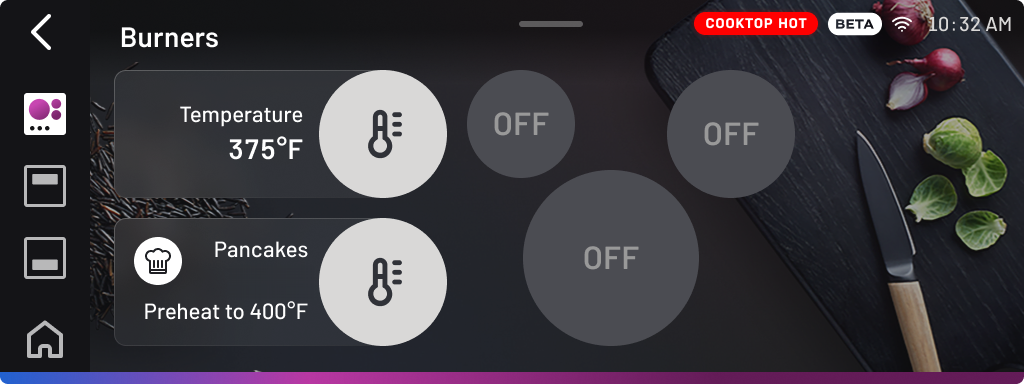
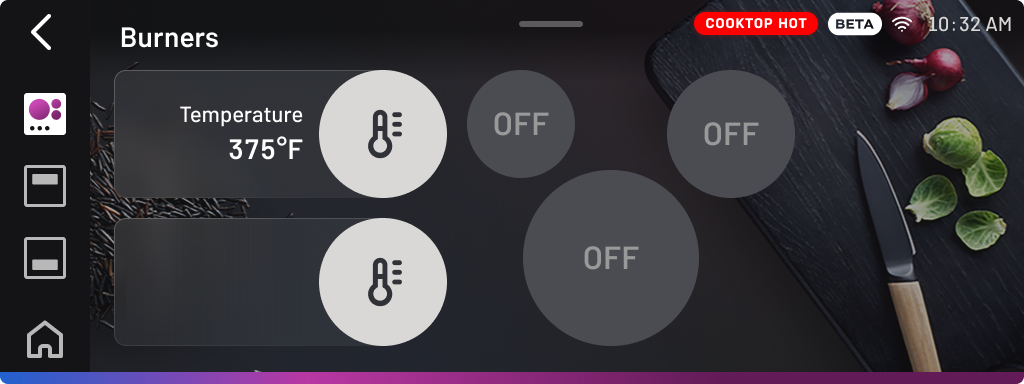
Update Pancakes tile on preheat completion to match Figma 3299:24163

Changed region(s): [[0.125, 0.625, 0.3125, 0.75], [0.125, 0.7812, 0.3125, 0.8438]]

diff --git a/styles.css b/styles.css
@@ -6406,21 +6406,110 @@ input,
   overflow: hidden;
 }
 
-.t3-pancakes-preheat-temp {
+/* Pancakes Burner Tile (Front Left) - Figma 3299:24045 & 3299:24163 */
+.t3-pancakes-burner-tile {
   position: absolute;
-  left: 44px;
-  top: 265px;
+  left: 24px;
+  top: 218px;
+  width: 271px;
+  height: 128px;
+  pointer-events: none;
+  z-index: 10;
+}
+
+.t3-pancakes-chef-btn {
+  position: absolute;
+  left: 20px;
+  top: 19px;
+  width: 48px;
+  height: 48px;
+  border-radius: 50%;
+  transition: top 0.4s cubic-bezier(0.2, 0.8, 0.2, 1);
+}
+
+.t3-pancakes-chef-img {
+  width: 100%;
+  height: 100%;
+  display: block;
+  border-radius: 50%;
+}
+
+.t3-pancakes-tile-texts {
+  position: absolute;
+  left: 20px;
+  top: 0;
   width: 174px;
+  height: 128px;
+}
+
+.t3-pancakes-tile-title {
+  position: absolute;
+  left: 0;
+  right: 0;
+  top: 19px;
+  height: 28px;
+  font-family: "Profile Text", -apple-system, BlinkMacSystemFont, "Segoe UI", Roboto, sans-serif;
+  font-size: 22px;
+  font-weight: 500;
+  line-height: 28px;
+  letter-spacing: 0.44px;
+  color: #ffffff;
+  text-align: right;
+  transition: top 0.4s cubic-bezier(0.2, 0.8, 0.2, 1);
+}
+
+.t3-pancakes-tile-temp {
+  position: absolute;
+  left: 0;
+  right: 0;
+  top: 47px;
   height: 34px;
   font-family: "Profile Text", -apple-system, BlinkMacSystemFont, "Segoe UI", Roboto, sans-serif;
   font-size: 28px;
   font-weight: 600;
-  color: #ffffff;
-  text-align: right;
   line-height: 34px;
   letter-spacing: 0.56px;
-  pointer-events: none;
-  z-index: 10;
+  color: #ffffff;
+  text-align: right;
+  transition: top 0.4s cubic-bezier(0.2, 0.8, 0.2, 1);
+}
+
+.t3-pancakes-tile-sub {
+  position: absolute;
+  left: 0;
+  right: 0;
+  top: 81px;
+  height: 28px;
+  font-family: "Profile Text", -apple-system, BlinkMacSystemFont, "Segoe UI", Roboto, sans-serif;
+  font-size: 22px;
+  font-weight: 500;
+  line-height: 28px;
+  letter-spacing: 0.44px;
+  color: #ffffff;
+  text-align: right;
+  opacity: 1;
+  visibility: visible;
+  transition: opacity 0.3s ease, visibility 0.3s ease;
+}
+
+/* TARGET TEMPERATURE REACHED (Figma 3299:24163):
+   Chef button aligns to vertical center line (top: 40px),
+   subtitle disappears, and title/temp re-center vertically */
+.t3-pancakes-burner-tile.is-reached .t3-pancakes-chef-btn {
+  top: 40px;
+}
+
+.t3-pancakes-burner-tile.is-reached .t3-pancakes-tile-title {
+  top: 33px;
+}
+
+.t3-pancakes-burner-tile.is-reached .t3-pancakes-tile-temp {
+  top: 61px;
+}
+
+.t3-pancakes-burner-tile.is-reached .t3-pancakes-tile-sub {
+  opacity: 0;
+  visibility: hidden;
 }
 
 .t3-pancakes-edit-hotspot {

diff --git a/index.html b/index.html
@@ -1820,13 +1820,26 @@
               </div>
             </div>
 
-            <!-- SCREEN: 3C-PANCAKES-PREHEAT (PANCAKES 400°F PREHEATING RAMP UP - FIGMA 3299:24045) -->
+            <!-- SCREEN: 3C-PANCAKES-PREHEAT (PANCAKES 400°F PREHEATING RAMP UP & TARGET REACHED - FIGMA 3299:24045 & 3299:24163) -->
             <div class="t3-screen" id="t3ScreenPancakesPreheat" hidden>
               <img class="t3-screen-bg" src="./assets/task3c/pancakes/3299_24045_clean.png" alt="Pancakes Preheating">
               <!-- Back button (< Burners) -->
               <button type="button" class="t3-back-btn" id="t3BtnBackFromPancakesPreheat" aria-label="Back to Pancakes"></button>
-              <!-- Dynamic Current Temperature (counts up from 178°F to 400°F) -->
-              <div class="t3-pancakes-preheat-temp" id="t3PancakesPreheatTemp">178°F</div>
+              
+              <!-- Pancakes Burner Tile (Front Left) -->
+              <div class="t3-pancakes-burner-tile" id="t3PancakesBurnerTile">
+                <!-- Chef Icon Button (48x48) -->
+                <div class="t3-pancakes-chef-btn" id="t3PancakesChefBtn">
+                  <img src="./assets/task3c/pancakes/chef_button_48.png" alt="Chef Icon" class="t3-pancakes-chef-img">
+                </div>
+                <!-- Tile Texts (Pancakes, Temp, Preheat Subtitle) -->
+                <div class="t3-pancakes-tile-texts" id="t3PancakesTileTexts">
+                  <div class="t3-pancakes-tile-title">Pancakes</div>
+                  <div class="t3-pancakes-tile-temp" id="t3PancakesPreheatTemp">178°F</div>
+                  <div class="t3-pancakes-tile-sub" id="t3PancakesPreheatSub">Preheat to 400°F</div>
+                </div>
+              </div>
+
               <!-- Hotspot to return to Pancakes config -->
               <button type="button" class="t3-pancakes-edit-hotspot" id="t3BtnEditPancakesPreheat" aria-label="Edit Pancakes"></button>
             </div>

diff --git a/app.js b/app.js
@@ -506,7 +506,10 @@
     t3PancakesCookwareDots: document.getElementById("t3PancakesCookwareDots"),
     t3ScreenPancakesPreheat: document.getElementById("t3ScreenPancakesPreheat"),
     t3BtnBackFromPancakesPreheat: document.getElementById("t3BtnBackFromPancakesPreheat"),
+    t3PancakesBurnerTile: document.getElementById("t3PancakesBurnerTile"),
     t3PancakesPreheatTemp: document.getElementById("t3PancakesPreheatTemp"),
+    t3PancakesPreheatSub: document.getElementById("t3PancakesPreheatSub"),
+    t3PancakesChefBtn: document.getElementById("t3PancakesChefBtn"),
     t3BtnEditPancakesPreheat: document.getElementById("t3BtnEditPancakesPreheat"),
 
     t3SubflowControls: document.getElementById("t3SubflowControls"),
@@ -2064,6 +2067,9 @@
       clearInterval(t3PancakesPreheatInterval);
       t3PancakesPreheatInterval = null;
     }
+    if (els.t3PancakesBurnerTile) {
+      els.t3PancakesBurnerTile.classList.remove("is-reached");
+    }
     if (typeof hideT3CompleteToast === "function") {
       hideT3CompleteToast();
     }
@@ -2919,6 +2925,10 @@
     updateNavbarState();
     updateScreenBadge("pancakesPreheat");
 
+    if (els.t3PancakesBurnerTile) {
+      els.t3PancakesBurnerTile.classList.remove("is-reached");
+    }
+
     const startTemp = 178;
     const targetTemp = 400;
     const durationMs = 5000;
@@ -2942,6 +2952,10 @@
         if (els.t3PancakesPreheatTemp) {
           els.t3PancakesPreheatTemp.textContent = `${targetTemp}°F`;
         }
+        if (els.t3PancakesBurnerTile) {
+          els.t3PancakesBurnerTile.classList.add("is-reached");
+        }
+        playSound("toggleOn");
       }
     }, 50);
   }
